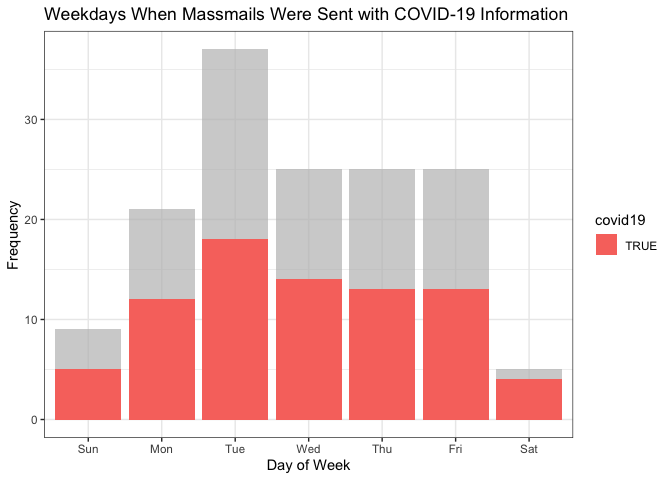
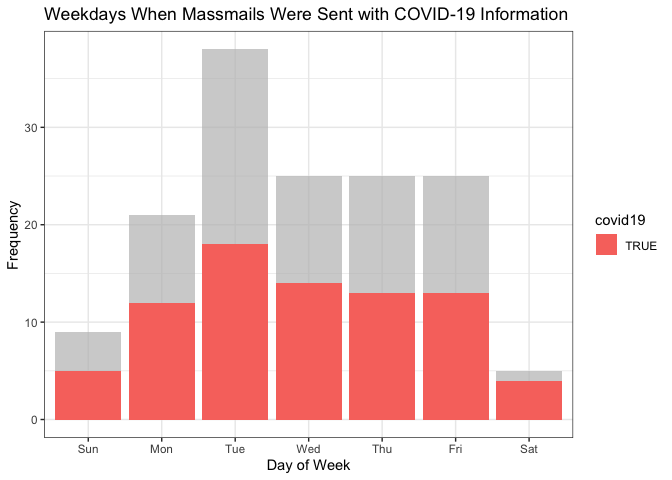
Re-build README.Rmd and Graphs

diff --git a/README.md b/README.md
@@ -17,7 +17,7 @@ The archive may be viewed here:
 
 <https://massmail.illinois.edu/massmailArchive>
 
-Data has **1189** observations and **7** variables:
+Data has **1190** observations and **7** variables:
 
   - `datetime`: Date and time when the email was sent in the form of
     `YYYY-MM-DD HMS` with either CDT or CST.
@@ -205,16 +205,16 @@ head(most_popular_words, 10) %>%
 
 | word        | freq |
 | :---------- | ---: |
-| students    |  533 |
-| university  |  460 |
-| campus      |  445 |
-| illinois    |  292 |
+| students    |  534 |
+| university  |  466 |
+| campus      |  453 |
+| illinois    |  298 |
 | faculty     |  286 |
+| information |  237 |
 | covid       |  231 |
-| information |  230 |
+| community   |  228 |
 | staff       |  224 |
-| community   |  223 |
-| health      |  200 |
+| health      |  201 |
 
 #### Wordcloud
 
